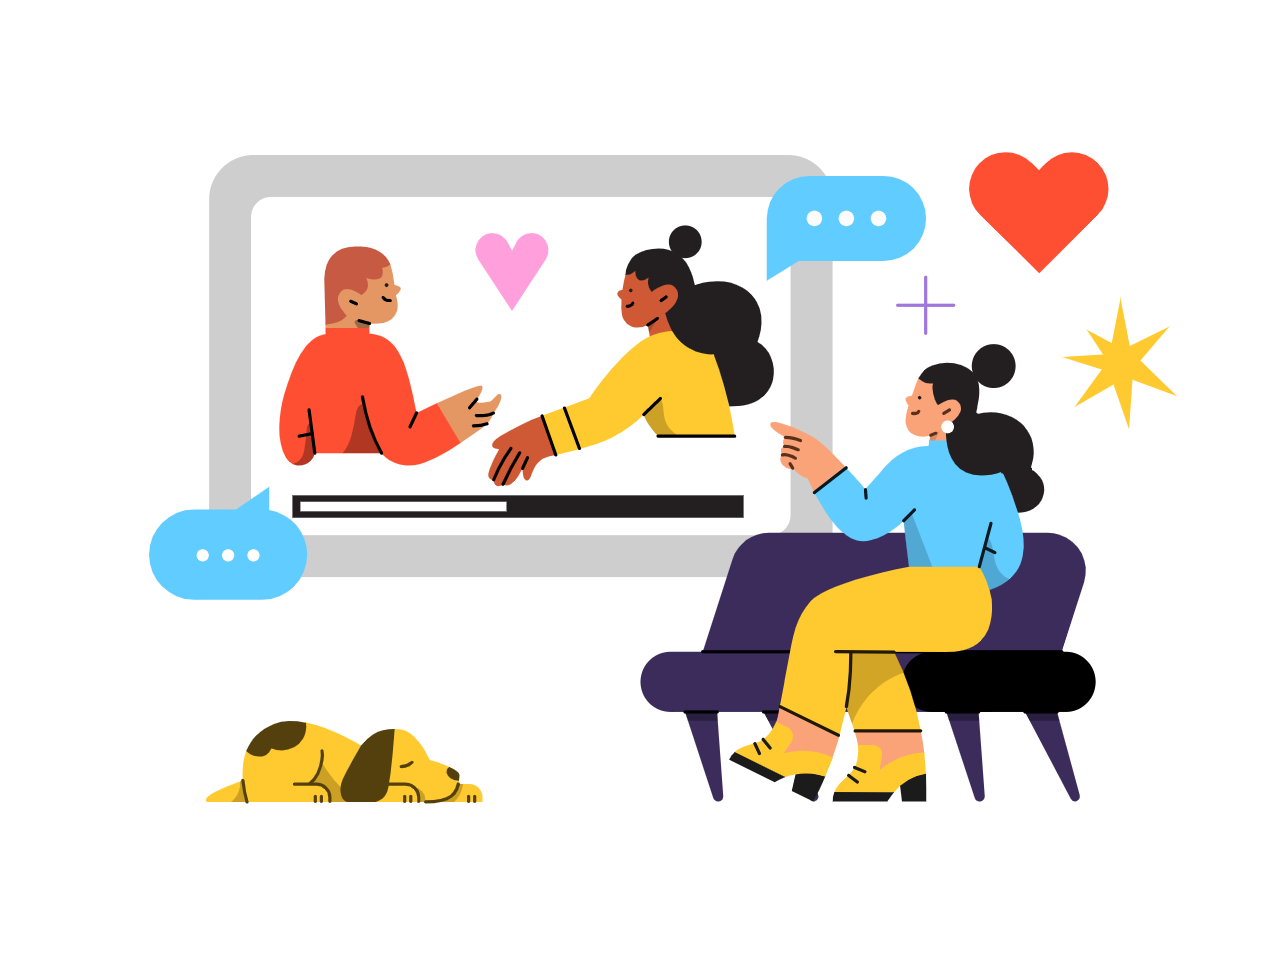
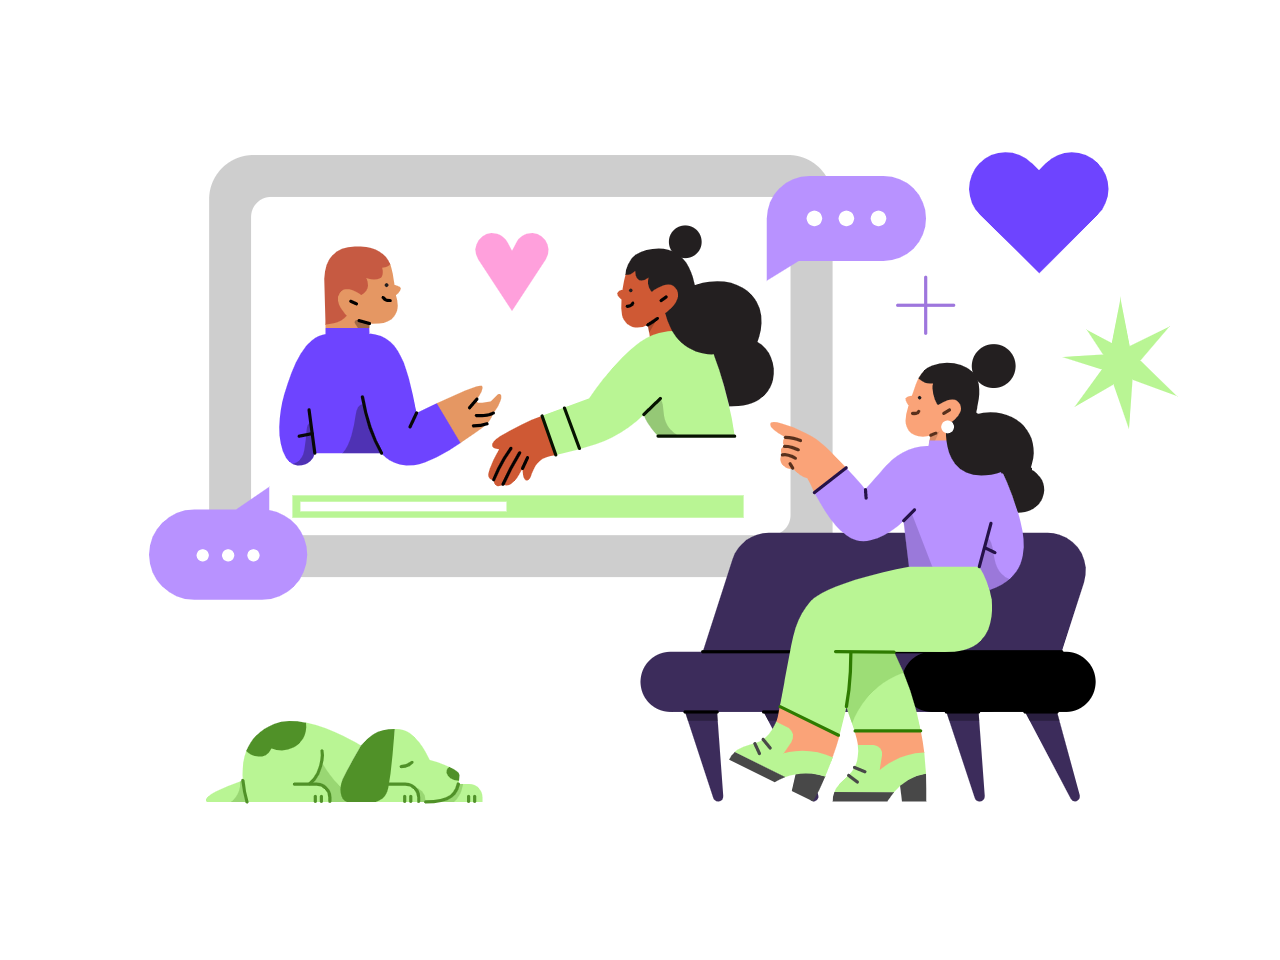
cards

diff --git a/Code/MERN/StylesComponents/client/src/Components/Footer.js b/Code/MERN/StylesComponents/client/src/Components/Footer.js
@@ -1,0 +1,49 @@
+import {Container} from './styles/Container.styled';
+import {Logo} from './styles/Header.styled';
+import {Flex} from './styles/Flex.styled';
+
+
+export default function Footer() {
+  return (
+    <div>
+
+        <Container>
+             <Logo>Cinema</Logo>
+
+             <Flex>
+                <ul>
+                    <li>
+                    
+                        lorem lakjfdg lkdjfgkdfgj lkdfjgldfgjdfgdgdf
+                        gsdfgsgsdgdgdsgdfgfdghdfh fdgdfgdfgfdgdfgg
+                        dfgdsfgg
+                        dfgdfgsfgfdg
+
+                    </li>
+                    <li>+34 456745 3453</li>
+                    <li>example@gmail.com</li>
+                </ul>
+
+                <ul>
+                    <li>About us</li>
+                    <li>Donate</li>
+                    <li>FAQ</li>
+                </ul>
+
+                <ul>
+
+                    <li>Careers</li>
+                    <li>Report an issue</li>
+                    <li>Contact Us</li>
+                </ul>
+
+
+
+             </Flex>
+
+             <p>COPYRIGHT 2022</p>
+
+        </Container>
+    </div>
+  )
+}

diff --git a/Code/MERN/StylesComponents/client/src/content.js b/Code/MERN/StylesComponents/client/src/content.js
@@ -1,0 +1,24 @@
+const content = [
+
+   {
+     id:1,
+     tittle: 'Horror Treasures',
+     body: 'The best horror movies you have ever seen. You will not be able to sleep for nights. Recommend watching them with your friend or pet, plants also count!',
+     image: 'horror.png'
+   },
+   {
+    id:2,
+    tittle: 'Horror Treasures',
+    body: 'The best horror movies you have ever seen. You will not be able to sleep for nights. Recommend watching them with your friend or pet, plants also count!',
+    image: 'horror.png'
+  },
+  {
+    id:3,
+    tittle: 'Horror Treasures',
+    body: 'The best horror movies you have ever seen. You will not be able to sleep for nights. Recommend watching them with your friend or pet, plants also count!',
+    image: 'horror.png'
+  }
+
+]
+
+export default content;

diff --git a/Code/MERN/StylesComponents/client/src/App.js b/Code/MERN/StylesComponents/client/src/App.js
@@ -2,14 +2,19 @@ import {ThemeProvider} from 'styled-components';
 import Header from './Components/Header';
 import {Container} from './Components/styles/Container.styled';
 import GlobalStyles from './Components/styles/Global';
+import content from './content'
+import Card from './Components/Card';
 
 const theme={
 
   colors:{
-    header:'#f1faee',
+    header:'#FFF8F0',
     body:'#fff ',
     footer:'#003333',
-  }
+  },
+  
+  // Media query for smaller screens.
+  mobile: '768px',
 }
 
 
@@ -22,7 +27,9 @@ function App() {
     <GlobalStyles/>
     <Header/>
       <Container>
-        <h1>Hello World</h1>
+        {content.map((item,index) => (
+          <Card key={index} item={item}/>
+        ))}
       </Container>
 
     </>

diff --git a/Code/MERN/StylesComponents/client/src/Components/styles/Header.styled.js b/Code/MERN/StylesComponents/client/src/Components/styles/Header.styled.js
@@ -14,15 +14,27 @@ export const Nav = styled.nav `
     justify-content:space-between;
     margin-bottom: 40px;
 
+    @media(max-width: ${({theme}) => theme.mobile}){
+        flex-direction: column;
+    }
+
 `
 export const Logo = styled.div `
     font-size: 50px;
+
+    @media(max-width: ${({theme}) => theme.mobile}){
+        margin-bottom:40px;
+        }
     
 `
 
 export const Image = styled.img`
 
-    width: 450px;
+    width: 350px;
     margin-left: 40px;
+
+    @media(max-width: ${({theme}) => theme.mobile}){
+        margin-top: 40px 0px 30px;
+    }
 
 `

diff --git a/Code/MERN/StylesComponents/client/src/Components/styles/Card.styled.js b/Code/MERN/StylesComponents/client/src/Components/styles/Card.styled.js
@@ -1,0 +1,29 @@
+import styled from "styled-components";
+
+export const StyledCard = styled.div `
+
+    display: flex;
+    align-items: center;
+    background-color: #fff ;
+    border-radius: 15px;
+    box-shadow:  0px 0px 10px rgba(0, 0, 0, 0.15);
+    margin: 40px 0px;
+    padding: 60px;
+    flex-direction: ${({layout}) => layout ||'row'};
+
+
+    img{
+        width:80%;
+
+    }
+
+    & > div {
+        flex:1;
+    }
+
+
+    @media(max-width: ${({theme}) => theme.mobile}){
+        flex-direction: column;
+    }
+
+`

diff --git a/Code/MERN/StylesComponents/client/src/Components/Card.js b/Code/MERN/StylesComponents/client/src/Components/Card.js
@@ -1,0 +1,20 @@
+import React from 'react';
+import { StyledCard } from './styles/Card.styled';
+
+//We are going to received these values and have access. 
+export default function Card({item: {id, tittle, body, image}}) {
+  return (
+    <StyledCard layout={id % 2 ===0 && 'row-reverse'}>
+
+        <div>
+            <h2>{tittle}</h2>
+            <p>{body}</p>
+        </div>
+
+        <div>
+            <img src={`./${image}`} alt=''/>
+        </div>
+
+    </StyledCard>
+  )
+}

diff --git a/Code/MERN/StylesComponents/client/src/Components/Header.js b/Code/MERN/StylesComponents/client/src/Components/Header.js
@@ -21,7 +21,7 @@ export default function Header() {
                     can have unlimited access without ads or commercials.
                     Time to spread the news and share them with yoy firends!
                   </p>
-                  <Button bg='#e63946' color='#fff'>Get Started For Free</Button>
+                  <Button bg='#6E44FF' color='#fff'>Get Started For Free</Button>
                 </div>
 
                 <Image src='./person-watching.png'/>

diff --git a/Code/MERN/StylesComponents/client/src/Components/styles/Flex.styled.js b/Code/MERN/StylesComponents/client/src/Components/styles/Flex.styled.js
@@ -10,6 +10,9 @@ export const Flex = styled.div `
         flex:1;
     }
 
-
+    @media(max-width: ${({theme}) => theme.mobile}){
+        flex-direction: column;
+        text-align: center;
+    }
 
 `
